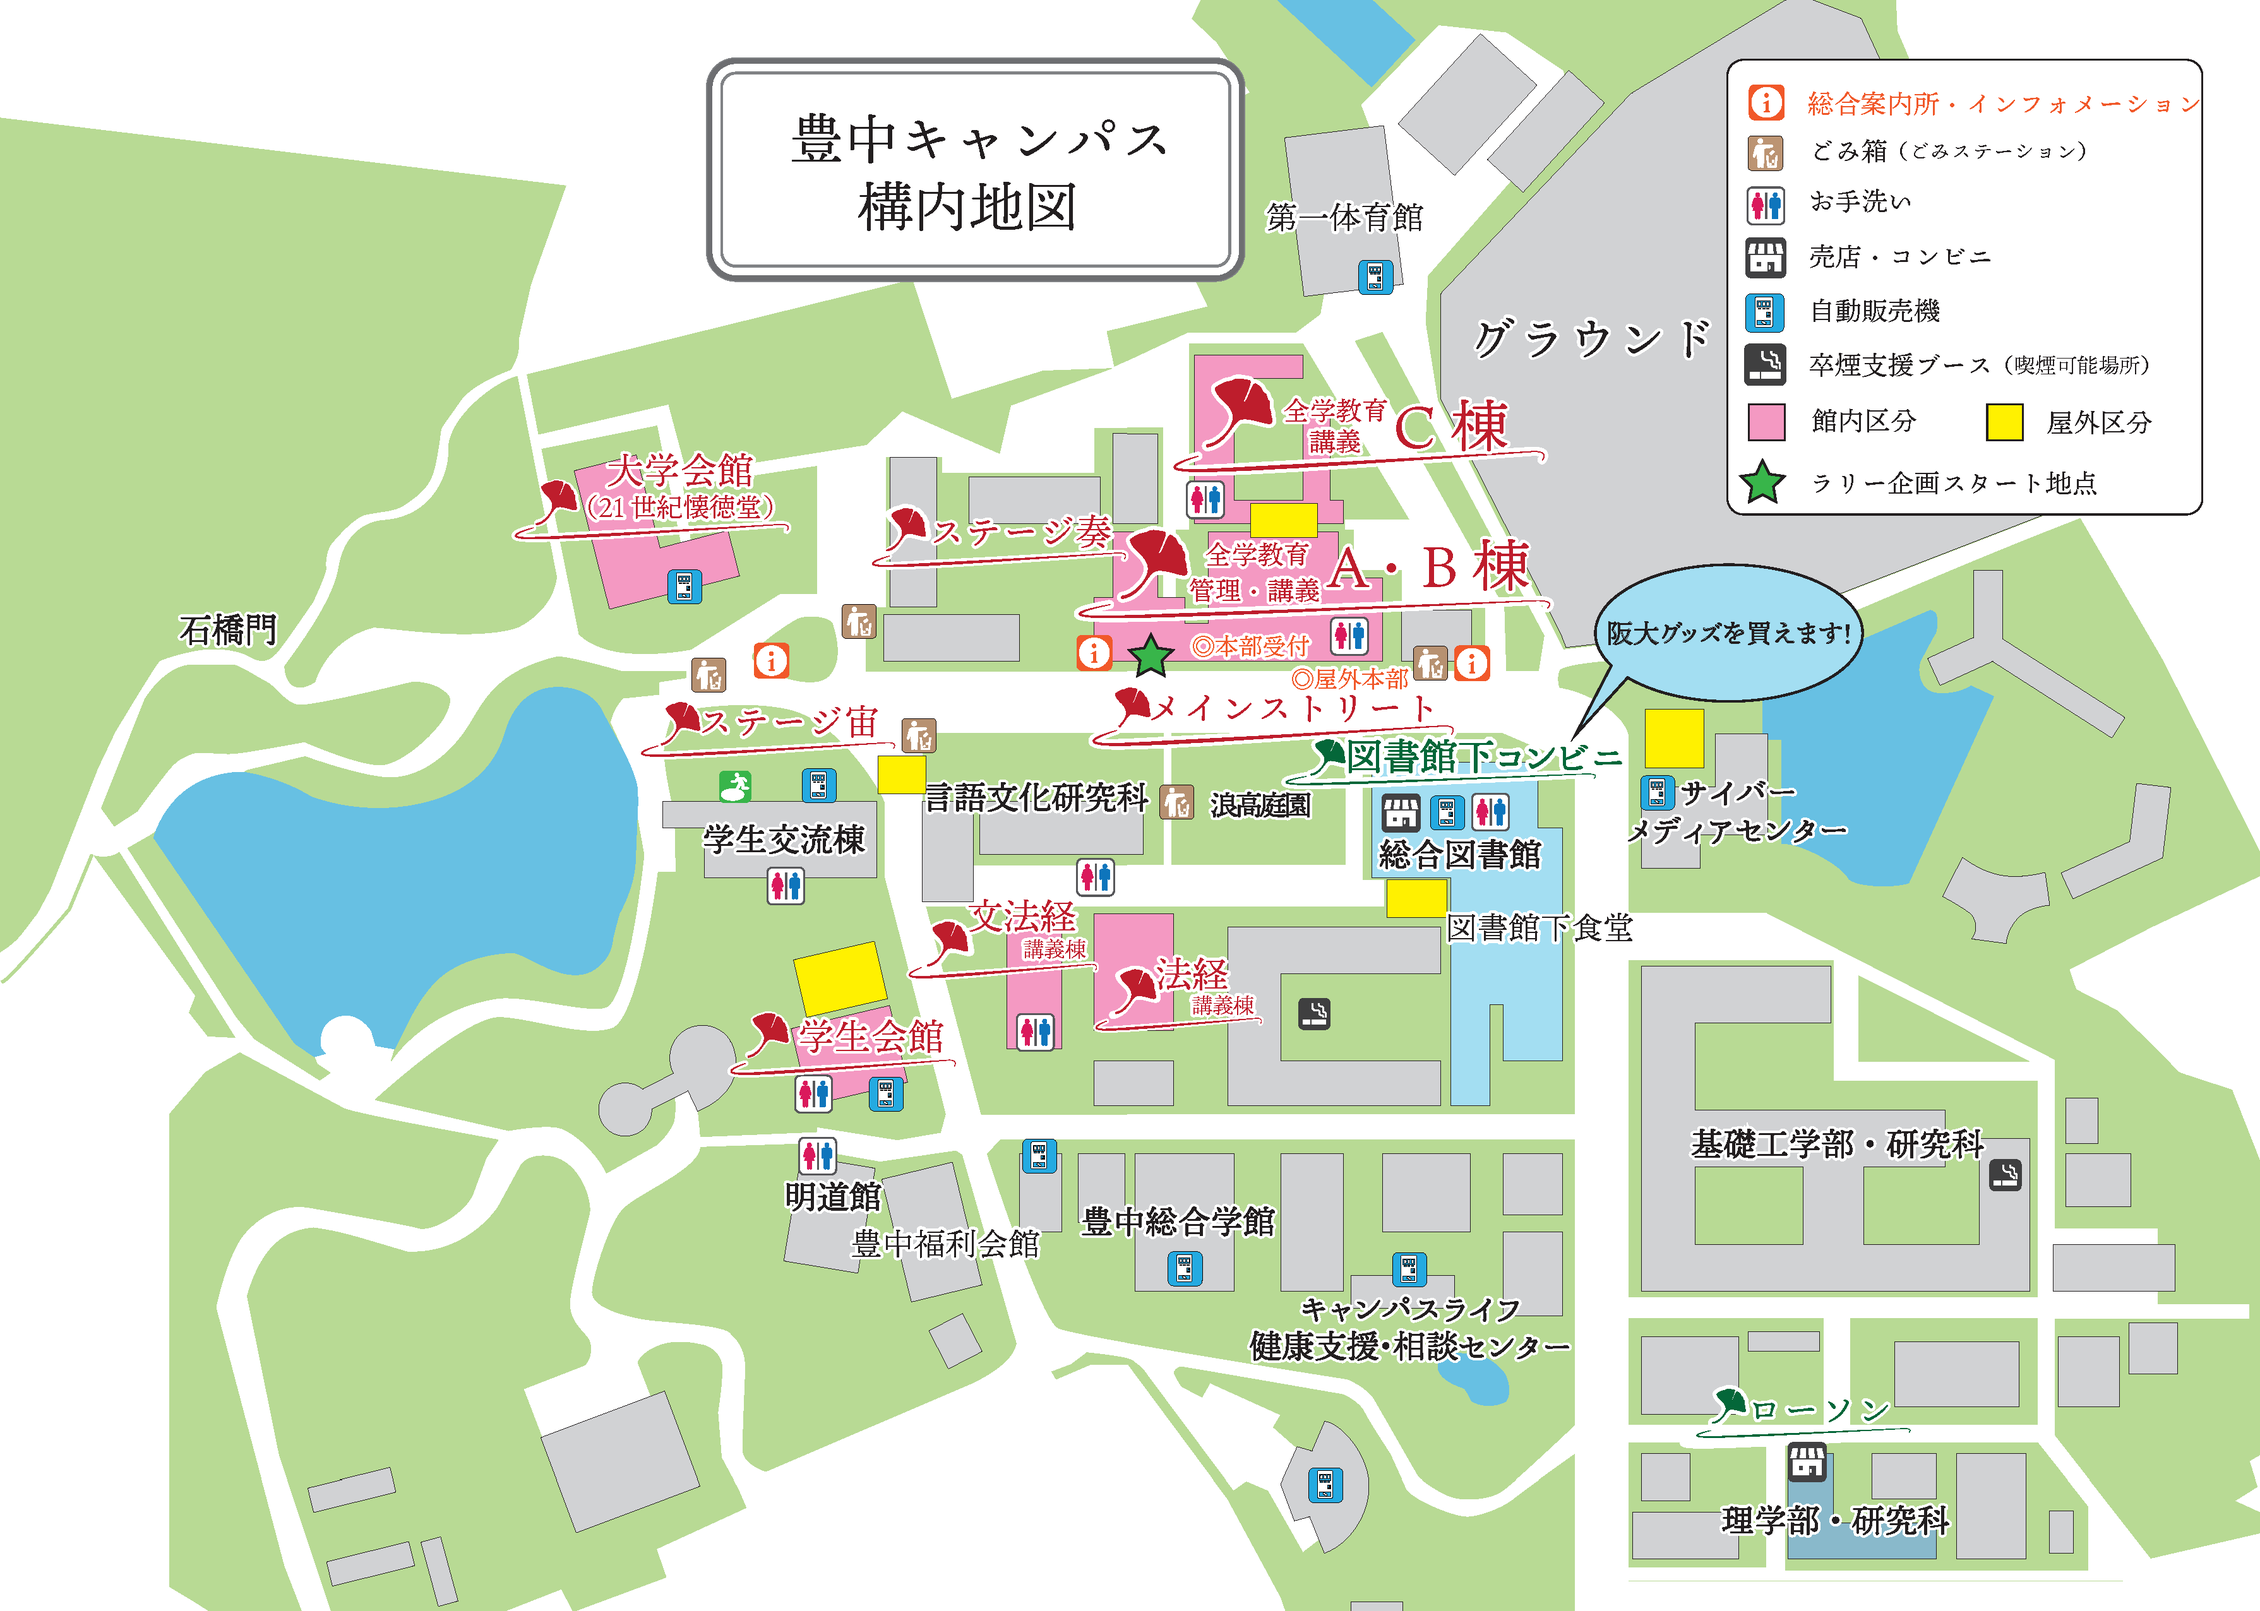
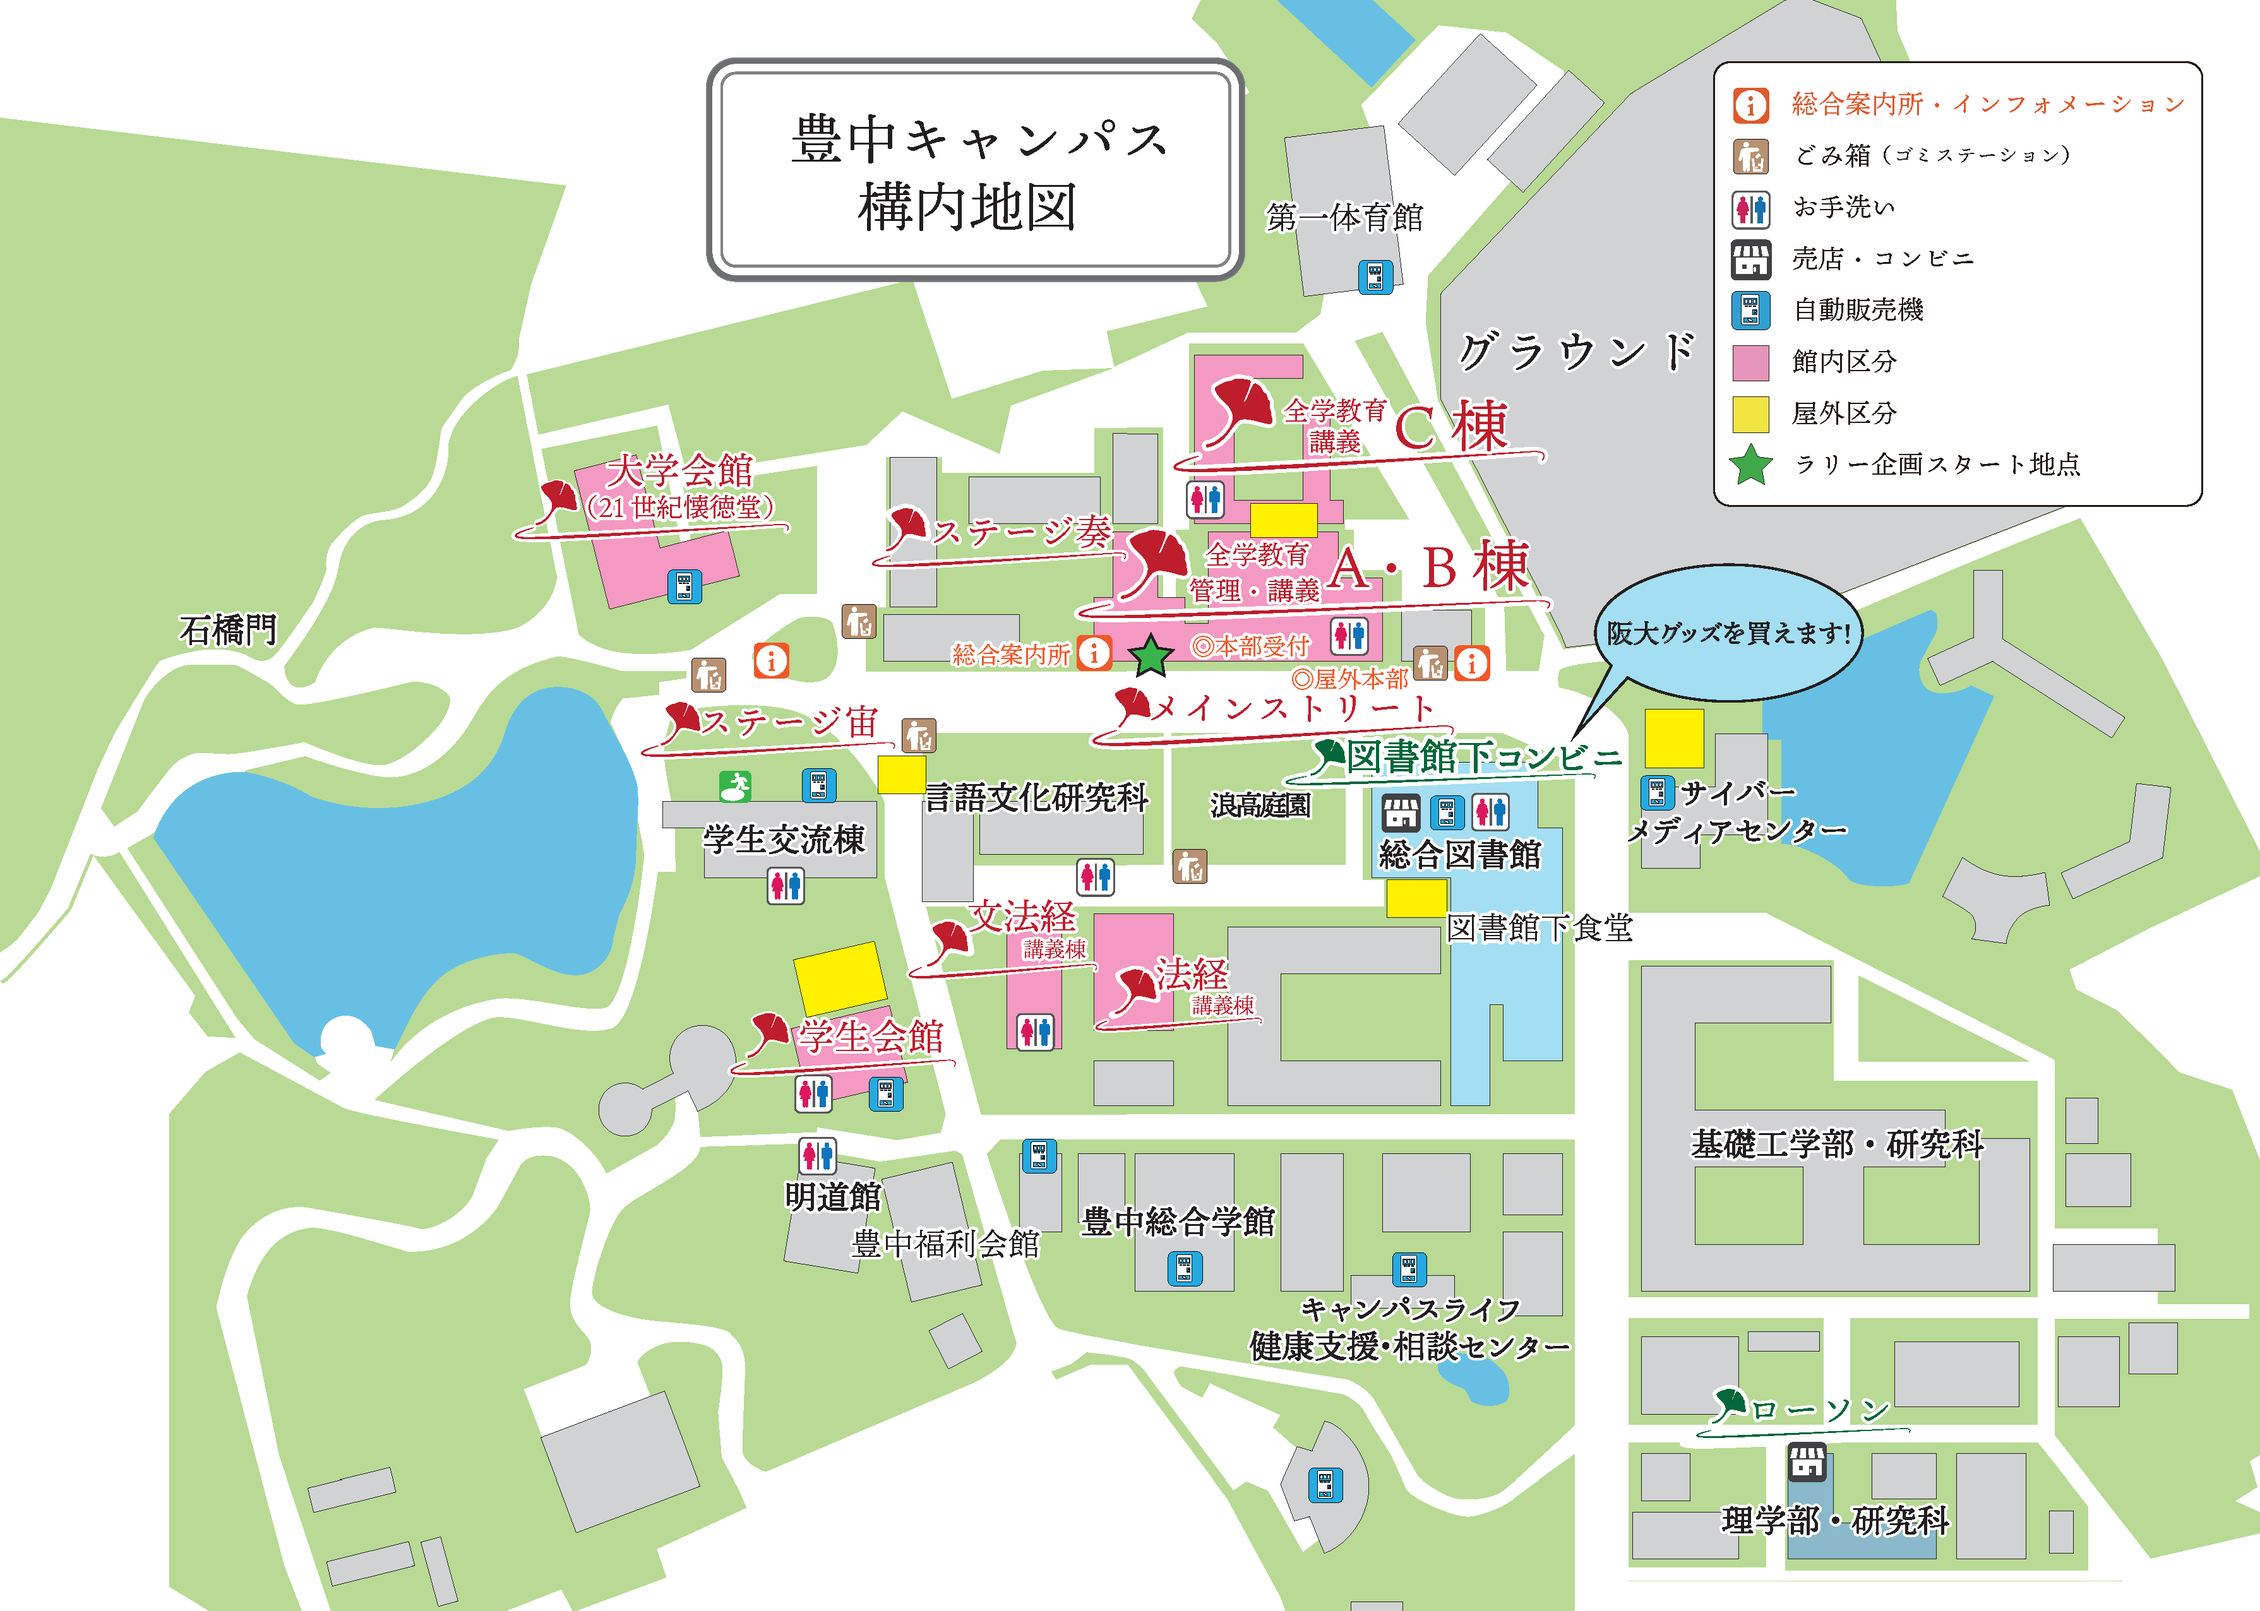
全体マップを修正して英語マップを入れました。

diff --git a/src/En-pages/access-map/MapEn.js b/src/En-pages/access-map/MapEn.js
@@ -3,7 +3,7 @@ import "../../css/Common.css"
 import "../../css/Map.css"
 import Bubble from "../../components/Bubble";
 import PageTitles from "../../components/PageTitles";
-import map from "../../imgs/map/全体マップ.png"
+import map from "../../imgs/map/全体マップ英語.png"
 import AB1 from "../../imgs/map/AB棟1階.png"
 import AB2 from "../../imgs/map/AB棟2階.png"
 import AB3 from "../../imgs/map/AB棟3階.png"
